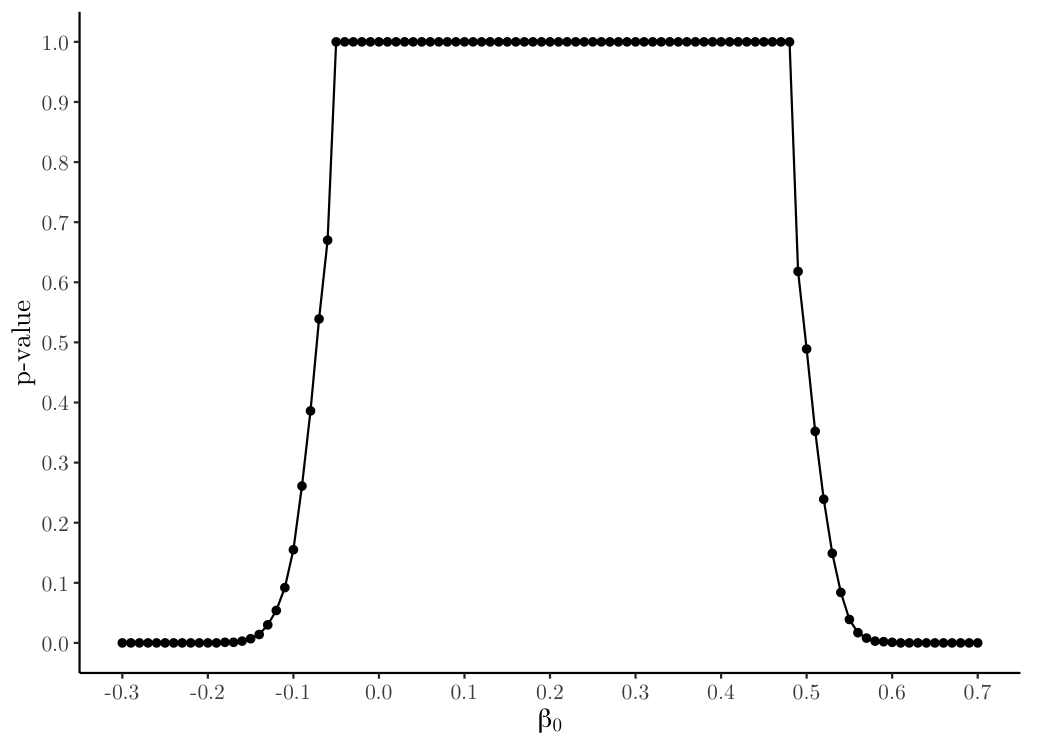
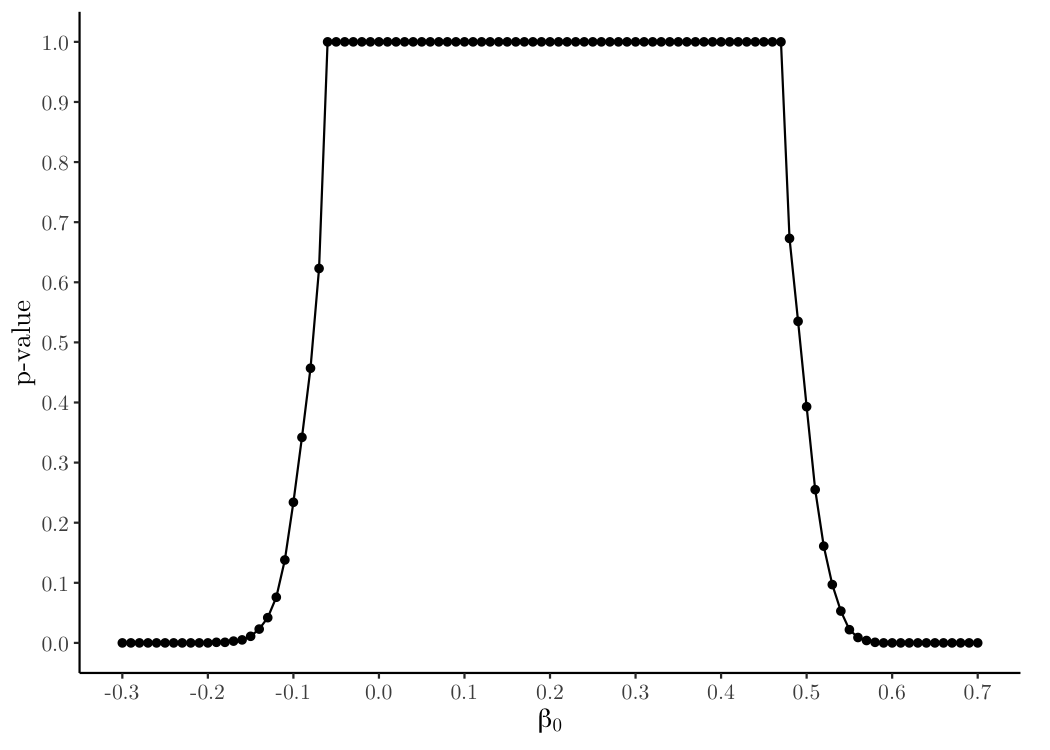
Updated README file

Changed region(s): [[0.7314, 0.0307, 0.8533, 0.8587], [0.2133, 0.3987, 0.3048, 0.8587], [0.2743, 0.0307, 0.3352, 0.368]]

diff --git a/README.md b/README.md
@@ -77,11 +77,11 @@ head(data)
 #> # A tibble: 6 × 3
 #>       y     d     z
 #>   <dbl> <dbl> <dbl>
-#> 1     0     0     0
-#> 2     1     1     0
-#> 3     1     1     0
-#> 4     1     0     0
-#> 5     1     1     0
+#> 1     0     0     1
+#> 2     0     1     1
+#> 3     0     0     0
+#> 4     0     0     0
+#> 5     1     0     0
 #> 6     0     0     0
 ```
 
@@ -115,9 +115,10 @@ ivprte::compute_population_bounds(target.parameter = "ATT",
 #> ATT -0.05843955   0.4746045
 ```
 
-The true ATT is 0.213. The population bounds with the marginal treatment
-responses (MTRs) specified as sextic Bernstein polynomials are \[-0.058,
-0.475\].
+Suppose our target parameter of interest is the average treatment on the
+treated (ATT). The true ATT is 0.213. The population bounds with the
+marginal treatment responses (MTRs) specified as sextic Bernstein
+polynomials are \[-0.058, 0.475\].
 
 # Compute the Confidence Interval Using Zhu’s Shape-Restricted Test
 
@@ -155,7 +156,7 @@ shapeinf.example
 #> 
 #> Target Parameter: Average Treatment on the Treated (ATT)
 #> 
-#> 90% Confidence Interval: (-0.1087, 0.5375)
+#> 90% Confidence Interval: (-0.1161, 0.5295)
 ```
 
 Two items should be of note regarding the confidence intervals outputted
@@ -183,10 +184,10 @@ the following target parameters:
 
 - Average untreated outcome (“AUO”)
 - Average treated outcome (“ATO”)
-- Average Treatment Effect (“ATE”)
-- Average Treatment on the Treated (“ATT”)
-- Average Treatment on the Untreated (“ATU”)
-- Local Average Treatment Effect (“LATE”)
+- Average treatment effect (“ATE”)
+- Average treatment on the treated (“ATT”)
+- Average treatment on the untreated (“ATU”)
+- Local average treatment effect (“LATE”)
 
 To do this, simply change the target parameter. If the target.parameter
 is “LATE”, we’ll also need to input the lower and upper bounds into
@@ -211,7 +212,7 @@ summary(shapeinf.example,
 #> 
 #> Target Parameter: Average Treatment on the Treated (ATT)
 #> 
-#> 95% Confidence Interval: (-0.1217, 0.5476)
+#> 95% Confidence Interval: (-0.1276, 0.541)
 ```
 
 ## Detailed Information
@@ -224,12 +225,12 @@ head(shapeinf.example$beta.null.test.detailed)
 #> # A tibble: 6 × 4
 #>   beta.null test.stat gurobi.result     p.value
 #>       <dbl>     <dbl> <list>              <dbl>
-#> 1     -0.3   1155551. <named list [12]>       0
-#> 2     -0.29   956824. <named list [12]>       0
-#> 3     -0.28   794101. <named list [12]>       0
-#> 4     -0.27   667383. <named list [12]>       0
-#> 5     -0.26   576670. <named list [12]>       0
-#> 6     -0.25   514019. <named list [12]>       0
+#> 1     -0.3   1126969. <named list [12]>       0
+#> 2     -0.29   941090. <named list [12]>       0
+#> 3     -0.28   790956. <named list [12]>       0
+#> 4     -0.27   676567. <named list [12]>       0
+#> 5     -0.26   597249. <named list [12]>       0
+#> 6     -0.25   531816. <named list [12]>       0
 ```
 
 We can plot a the $p$-value curve using `ggplot2::ggplot()`:
@@ -263,12 +264,12 @@ head(shapeinf.example$bootstrap.detailed)
 #> # A tibble: 6 × 7
 #>   bootstrap.number bootstrap.seed beta.null gamma lambda bootstrap.test.stat
 #>              <int>          <int>     <dbl> <dbl>  <dbl>               <dbl>
-#> 1                1              1     -0.3  0.330     0              127345.
-#> 2                1              1     -0.3  0      1086.               7827.
-#> 3                1              1     -0.29 0.330     0              102578.
-#> 4                1              1     -0.29 0      1086.               7500.
-#> 5                1              1     -0.28 0.330     0               82038.
-#> 6                1              1     -0.28 0      1086.               7263.
+#> 1                1              1     -0.3  0.330     0              108172.
+#> 2                1              1     -0.3  0      1086.              51156.
+#> 3                1              1     -0.29 0.330     0               91352.
+#> 4                1              1     -0.29 0      1086.              49792.
+#> 5                1              1     -0.28 0.330     0               77337.
+#> 6                1              1     -0.28 0      1086.              48494.
 #> # ℹ 1 more variable: gurobi.result <list>
 ```
 
@@ -303,18 +304,18 @@ shapeinf.example.dgp <- shapeinf(data,
 data.frame(estimated.tau = shapeinf.example$tau,
            population.tau = shapeinf.example.dgp$tau)
 #>    estimated.tau population.tau
-#> 1    -0.27365038    -0.27391814
-#> 2    -0.23905971    -0.23811314
-#> 3    -0.19055948    -0.18916214
-#> 4    -0.14335181    -0.14285714
-#> 5    -0.09572068    -0.09655214
-#> 6    -0.04638872    -0.04760114
-#> 7    -0.01126922    -0.01179614
-#> 8     0.27365038     0.27391814
-#> 9     0.23905971     0.23811314
-#> 10    0.19055948     0.18916214
-#> 11    0.14335181     0.14285714
-#> 12    0.09572068     0.09655214
-#> 13    0.04638872     0.04760114
-#> 14    0.01126922     0.01179614
+#> 1    -0.27132669    -0.27391814
+#> 2    -0.23713776    -0.23811314
+#> 3    -0.18921028    -0.18916214
+#> 4    -0.14335597    -0.14285714
+#> 5    -0.09767616    -0.09655214
+#> 6    -0.04891361    -0.04760114
+#> 7    -0.01237952    -0.01179614
+#> 8     0.27132669     0.27391814
+#> 9     0.23713776     0.23811314
+#> 10    0.18921028     0.18916214
+#> 11    0.14335597     0.14285714
+#> 12    0.09767616     0.09655214
+#> 13    0.04891361     0.04760114
+#> 14    0.01237952     0.01179614
 ```
